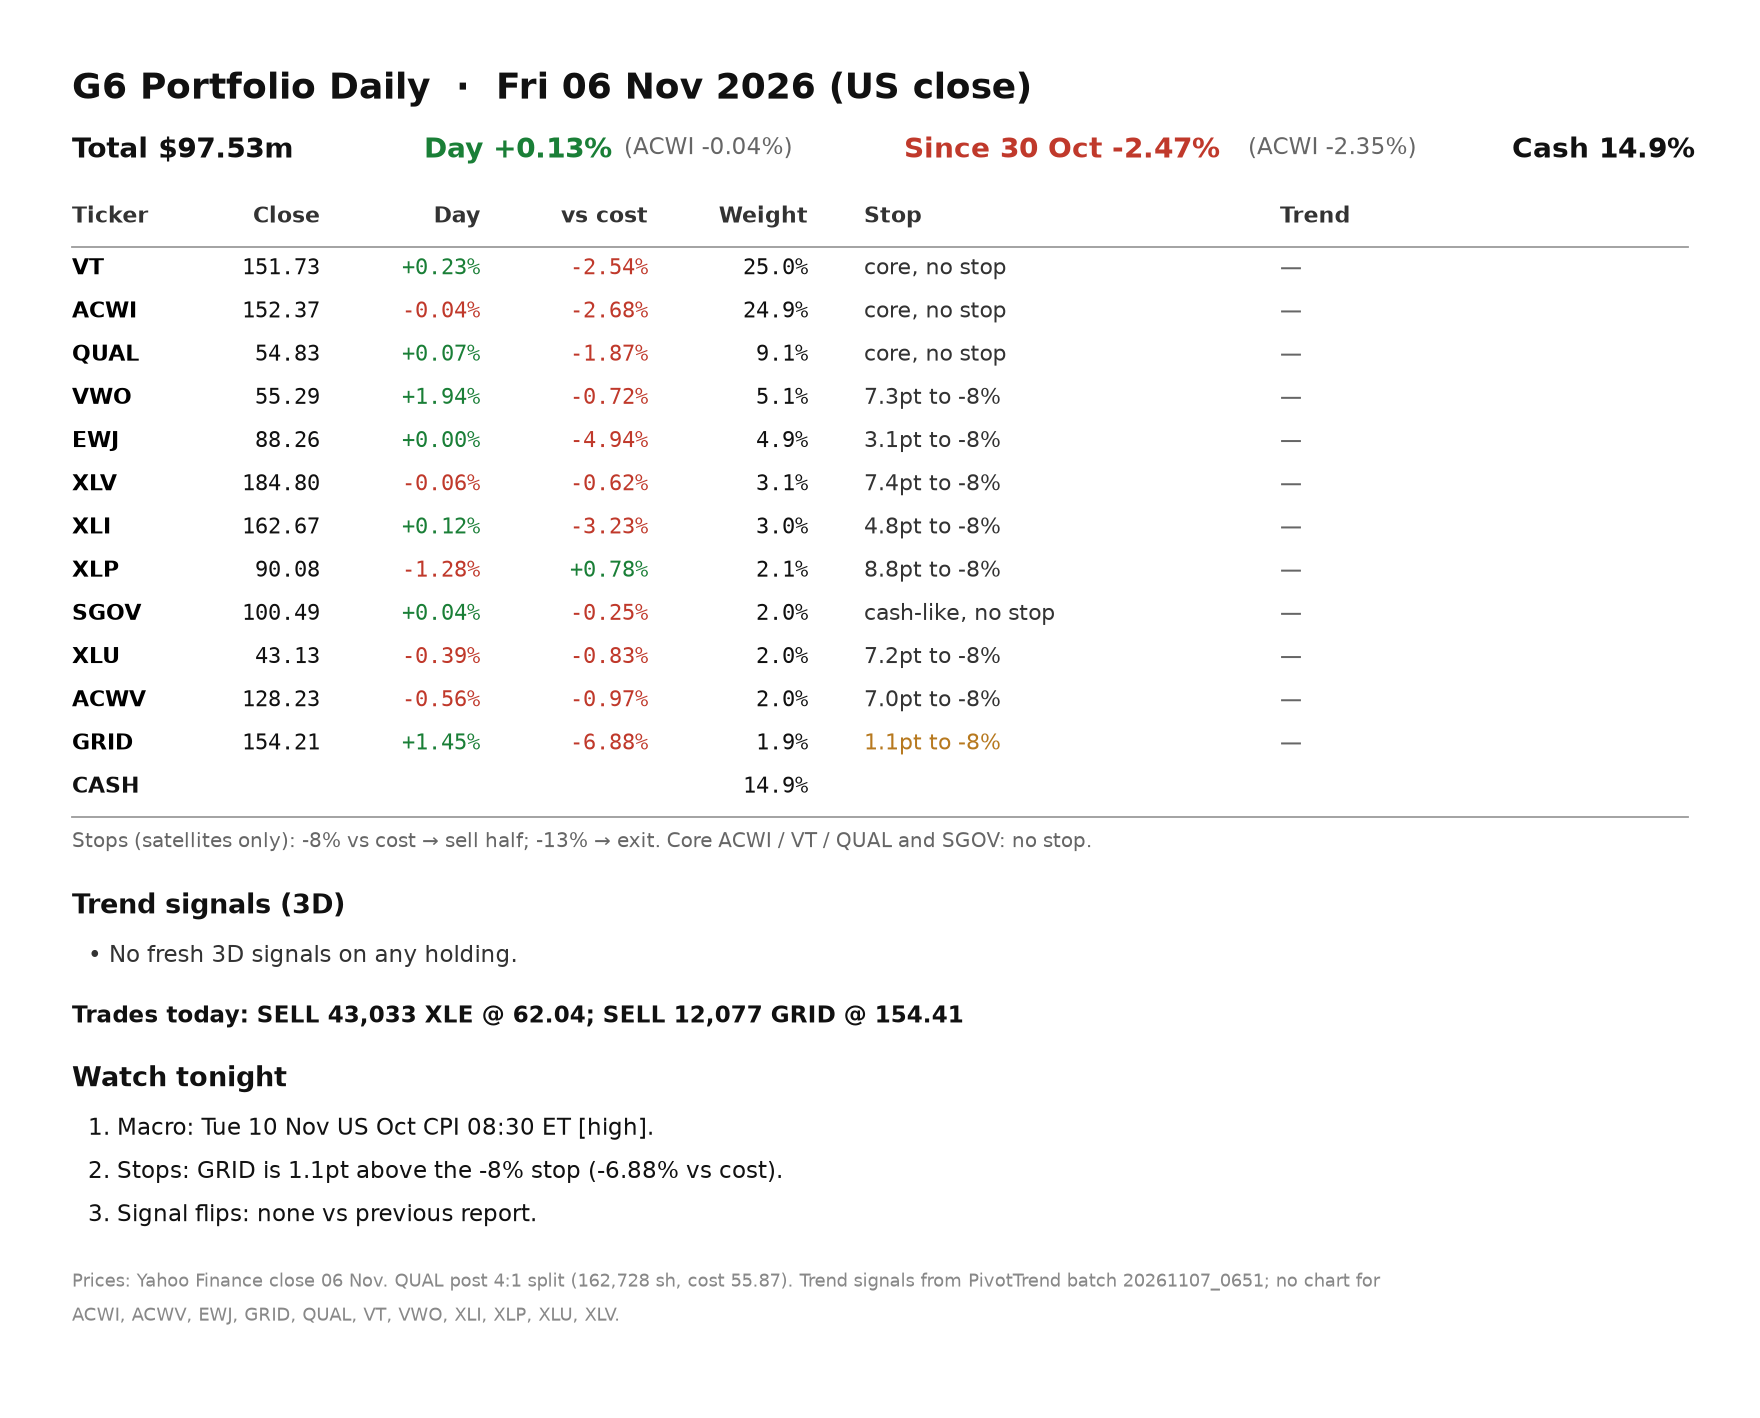
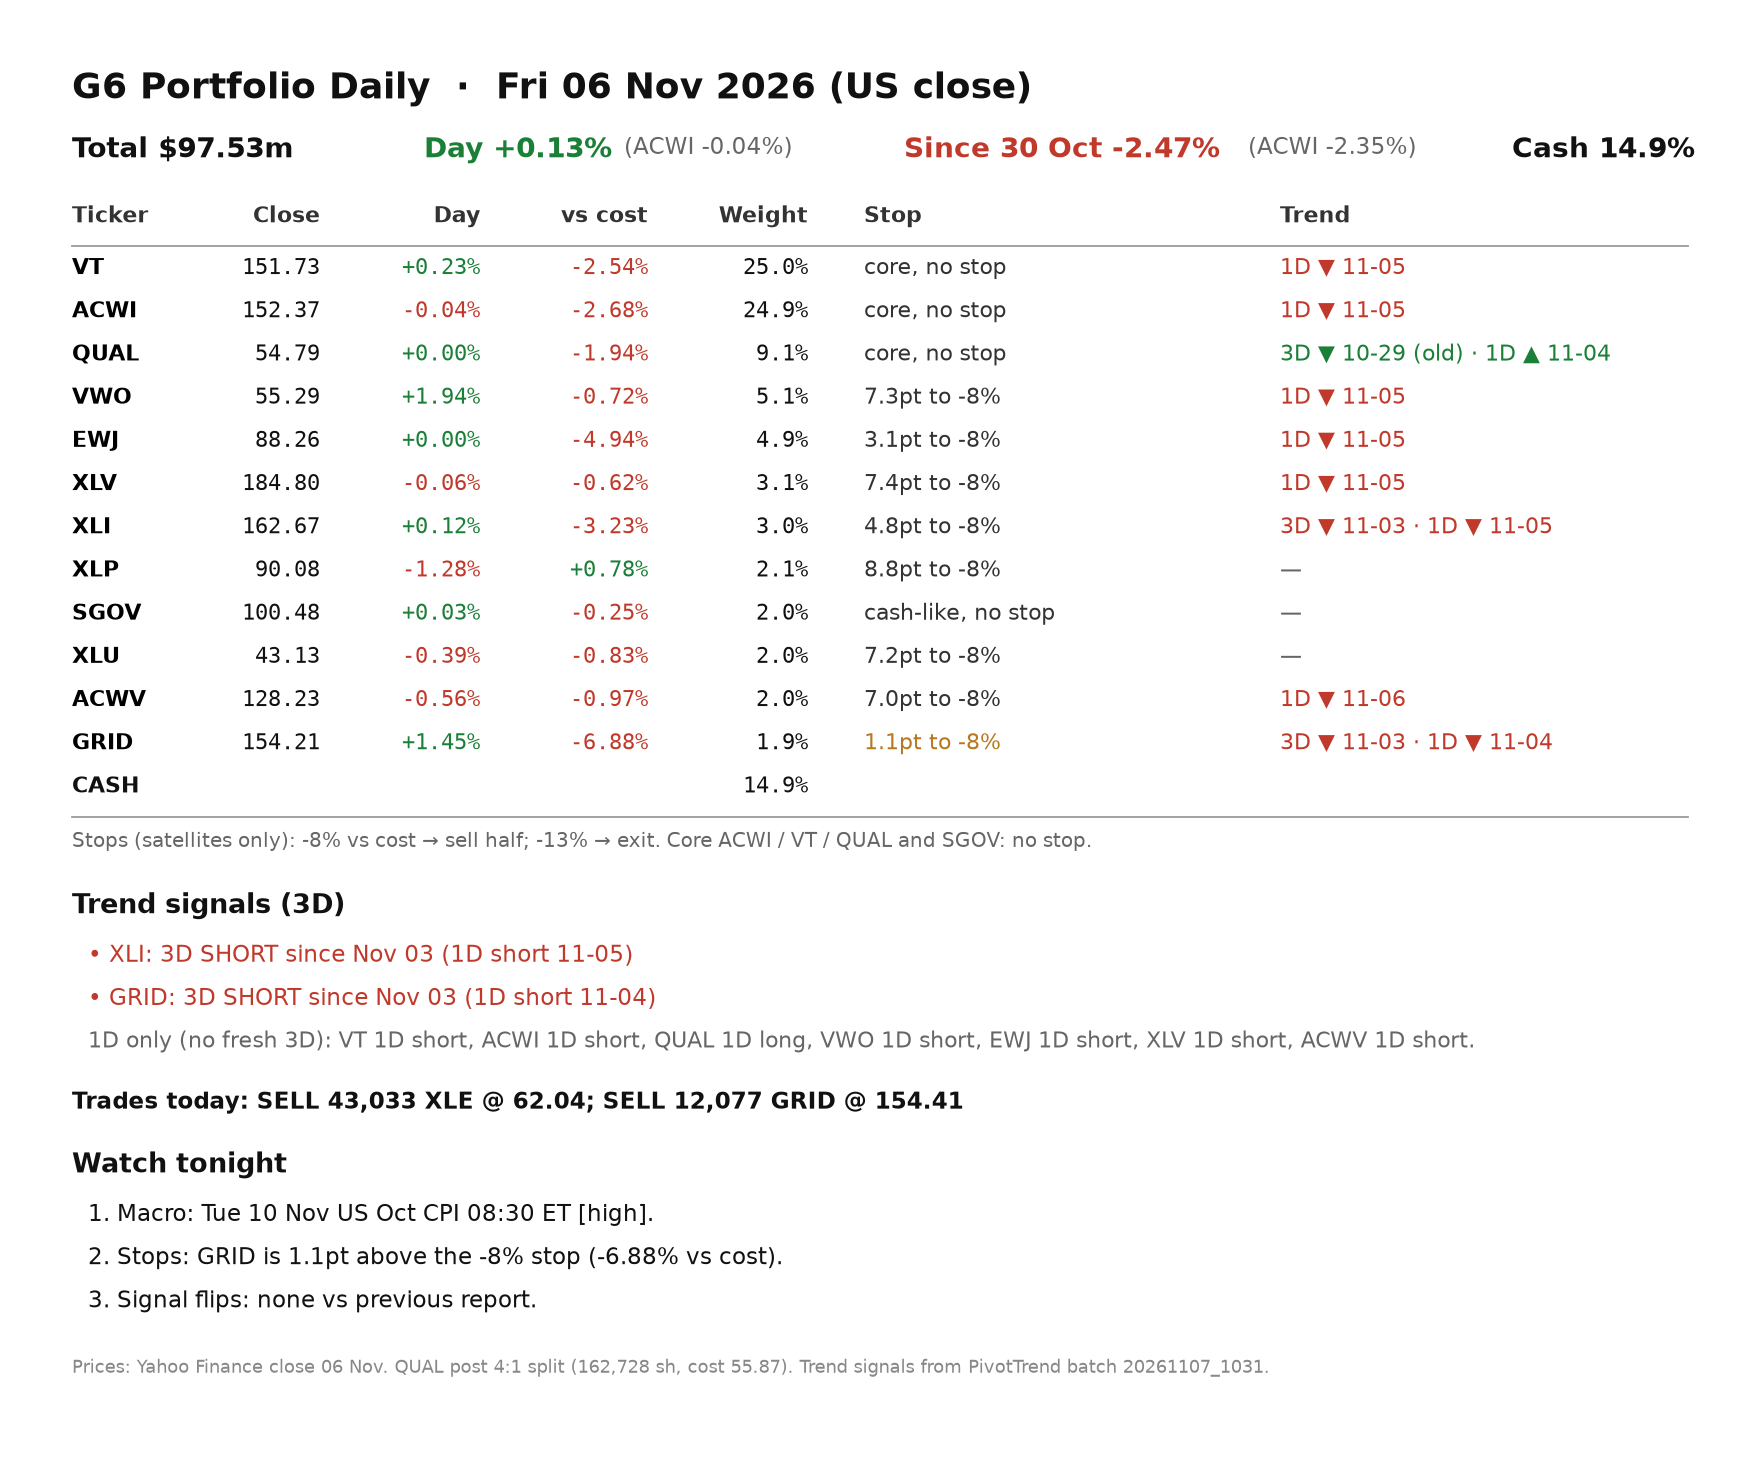
G6 daily 2026-11-06

diff --git a/docs/g6/index.html b/docs/g6/index.html
@@ -14,26 +14,27 @@ ol{padding-left:22px}p{margin:8px 0}i{color:var(--mut);font-size:13px}
 .foot{color:var(--mut);font-size:12px;margin-top:24px}
 </style></head><body>
 <h1>G6 Portfolio Daily</h1>
-<div class="sub">WM6813 StockTrak · account WMI26PMG6 · benchmark MSCI ACWI · updated 07 Nov 2026 06:52 SGT · newest first; earlier weeks fold below</div>
+<div class="sub">WM6813 StockTrak · account WMI26PMG6 · benchmark MSCI ACWI · updated 09 Nov 2026 10:51 SGT · newest first; earlier weeks fold below</div>
 <h3 style="color:var(--mut);font-size:13px;margin:0 0 8px">This week</h3>
 <section class="day" id="d20261106"><h2>Fri 06 Nov 2026 (US close)<a href="G6_daily_20261106.png" target="_blank">PNG ↗</a></h2><p><b>Total $97.53m</b> | Day <span class="up">+0.13%</span> (ACWI <span class="dn">-0.04%</span>) | Since 30 Oct <span class="dn">-2.47%</span> (ACWI <span class="dn">-2.35%</span>) | Cash 14.9% ($14.49m)</p>
 <div class="tw"><table><thead><tr><th>Ticker</th><th>Close</th><th>Day</th><th>vs cost</th><th>Weight</th><th>Stop</th><th>Trend</th></tr></thead><tbody>
-<tr><td>VT</td><td>151.73</td><td><span class="up">+0.23%</span></td><td><span class="dn">-2.54%</span></td><td>25.0%</td><td>core, no stop</td><td></td></tr>
-<tr><td>ACWI</td><td>152.37</td><td><span class="dn">-0.04%</span></td><td><span class="dn">-2.68%</span></td><td>24.9%</td><td>core, no stop</td><td></td></tr>
-<tr><td>QUAL</td><td>54.83</td><td><span class="up">+0.07%</span></td><td><span class="dn">-1.87%</span></td><td>9.1%</td><td>core, no stop</td><td></td></tr>
-<tr><td>VWO</td><td>55.29</td><td><span class="up">+1.94%</span></td><td><span class="dn">-0.72%</span></td><td>5.1%</td><td>7.3pt to -8%</td><td></td></tr>
-<tr><td>EWJ</td><td>88.26</td><td><span class="up">+0.00%</span></td><td><span class="dn">-4.94%</span></td><td>4.9%</td><td>3.1pt to -8%</td><td></td></tr>
-<tr><td>XLV</td><td>184.80</td><td><span class="dn">-0.06%</span></td><td><span class="dn">-0.62%</span></td><td>3.1%</td><td>7.4pt to -8%</td><td></td></tr>
-<tr><td>XLI</td><td>162.67</td><td><span class="up">+0.12%</span></td><td><span class="dn">-3.23%</span></td><td>3.0%</td><td>4.8pt to -8%</td><td></td></tr>
+<tr><td>VT</td><td>151.73</td><td><span class="up">+0.23%</span></td><td><span class="dn">-2.54%</span></td><td>25.0%</td><td>core, no stop</td><td>1D ▼ 11-05</td></tr>
+<tr><td>ACWI</td><td>152.37</td><td><span class="dn">-0.04%</span></td><td><span class="dn">-2.68%</span></td><td>24.9%</td><td>core, no stop</td><td>1D ▼ 11-05</td></tr>
+<tr><td>QUAL</td><td>54.79</td><td><span class="up">+0.00%</span></td><td><span class="dn">-1.94%</span></td><td>9.1%</td><td>core, no stop</td><td>3D ▼ 10-29 (old) · 1D ▲ 11-04</td></tr>
+<tr><td>VWO</td><td>55.29</td><td><span class="up">+1.94%</span></td><td><span class="dn">-0.72%</span></td><td>5.1%</td><td>7.3pt to -8%</td><td>1D ▼ 11-05</td></tr>
+<tr><td>EWJ</td><td>88.26</td><td><span class="up">+0.00%</span></td><td><span class="dn">-4.94%</span></td><td>4.9%</td><td>3.1pt to -8%</td><td>1D ▼ 11-05</td></tr>
+<tr><td>XLV</td><td>184.80</td><td><span class="dn">-0.06%</span></td><td><span class="dn">-0.62%</span></td><td>3.1%</td><td>7.4pt to -8%</td><td>1D ▼ 11-05</td></tr>
+<tr><td>XLI</td><td>162.67</td><td><span class="up">+0.12%</span></td><td><span class="dn">-3.23%</span></td><td>3.0%</td><td>4.8pt to -8%</td><td>3D ▼ 11-03 · 1D ▼ 11-05</td></tr>
 <tr><td>XLP</td><td>90.08</td><td><span class="dn">-1.28%</span></td><td><span class="up">+0.78%</span></td><td>2.1%</td><td>8.8pt to -8%</td><td></td></tr>
-<tr><td>SGOV</td><td>100.49</td><td><span class="up">+0.04%</span></td><td><span class="dn">-0.25%</span></td><td>2.0%</td><td>cash-like, no stop</td><td></td></tr>
+<tr><td>SGOV</td><td>100.48</td><td><span class="up">+0.03%</span></td><td><span class="dn">-0.25%</span></td><td>2.0%</td><td>cash-like, no stop</td><td></td></tr>
 <tr><td>XLU</td><td>43.13</td><td><span class="dn">-0.39%</span></td><td><span class="dn">-0.83%</span></td><td>2.0%</td><td>7.2pt to -8%</td><td></td></tr>
-<tr><td>ACWV</td><td>128.23</td><td><span class="dn">-0.56%</span></td><td><span class="dn">-0.97%</span></td><td>2.0%</td><td>7.0pt to -8%</td><td></td></tr>
-<tr><td>GRID</td><td>154.21</td><td><span class="up">+1.45%</span></td><td><span class="dn">-6.88%</span></td><td>1.9%</td><td>1.1pt to -8%</td><td></td></tr>
+<tr><td>ACWV</td><td>128.23</td><td><span class="dn">-0.56%</span></td><td><span class="dn">-0.97%</span></td><td>2.0%</td><td>7.0pt to -8%</td><td>1D ▼ 11-06</td></tr>
+<tr><td>GRID</td><td>154.21</td><td><span class="up">+1.45%</span></td><td><span class="dn">-6.88%</span></td><td>1.9%</td><td>1.1pt to -8%</td><td>3D ▼ 11-03 · 1D ▼ 11-04</td></tr>
 <tr><td>CASH</td><td></td><td></td><td></td><td>14.9%</td><td></td><td></td></tr>
 </tbody></table></div>
-<p>Stops (satellites only): -8% vs cost → sell half; -13% → exit. Trend signals from PivotTrend batch 20261107_0651; no chart for ACWI, ACWV, EWJ, GRID, QUAL, VT, VWO, XLI, XLP, XLU, XLV.</p>
-<p><b>Trend signals (3D):</b> no fresh 3D signals on any holding.</p>
+<p>Stops (satellites only): -8% vs cost → sell half; -13% → exit. Trend signals from PivotTrend batch 20261107_1031.</p>
+<p><b>Trend signals (3D):</b> XLI: 3D SHORT since Nov 03 (1D short 11-05); GRID: 3D SHORT since Nov 03 (1D short 11-04)</p>
+<p>1D only (no fresh 3D): VT 1D short, ACWI 1D short, QUAL 1D long, VWO 1D short, EWJ 1D short, XLV 1D short, ACWV 1D short.</p>
 <p><b>Trades today:</b> SELL 43,033 XLE @ 62.04; SELL 12,077 GRID @ 154.41</p>
 <p><b>Watch tonight</b></p>
 <ol>
